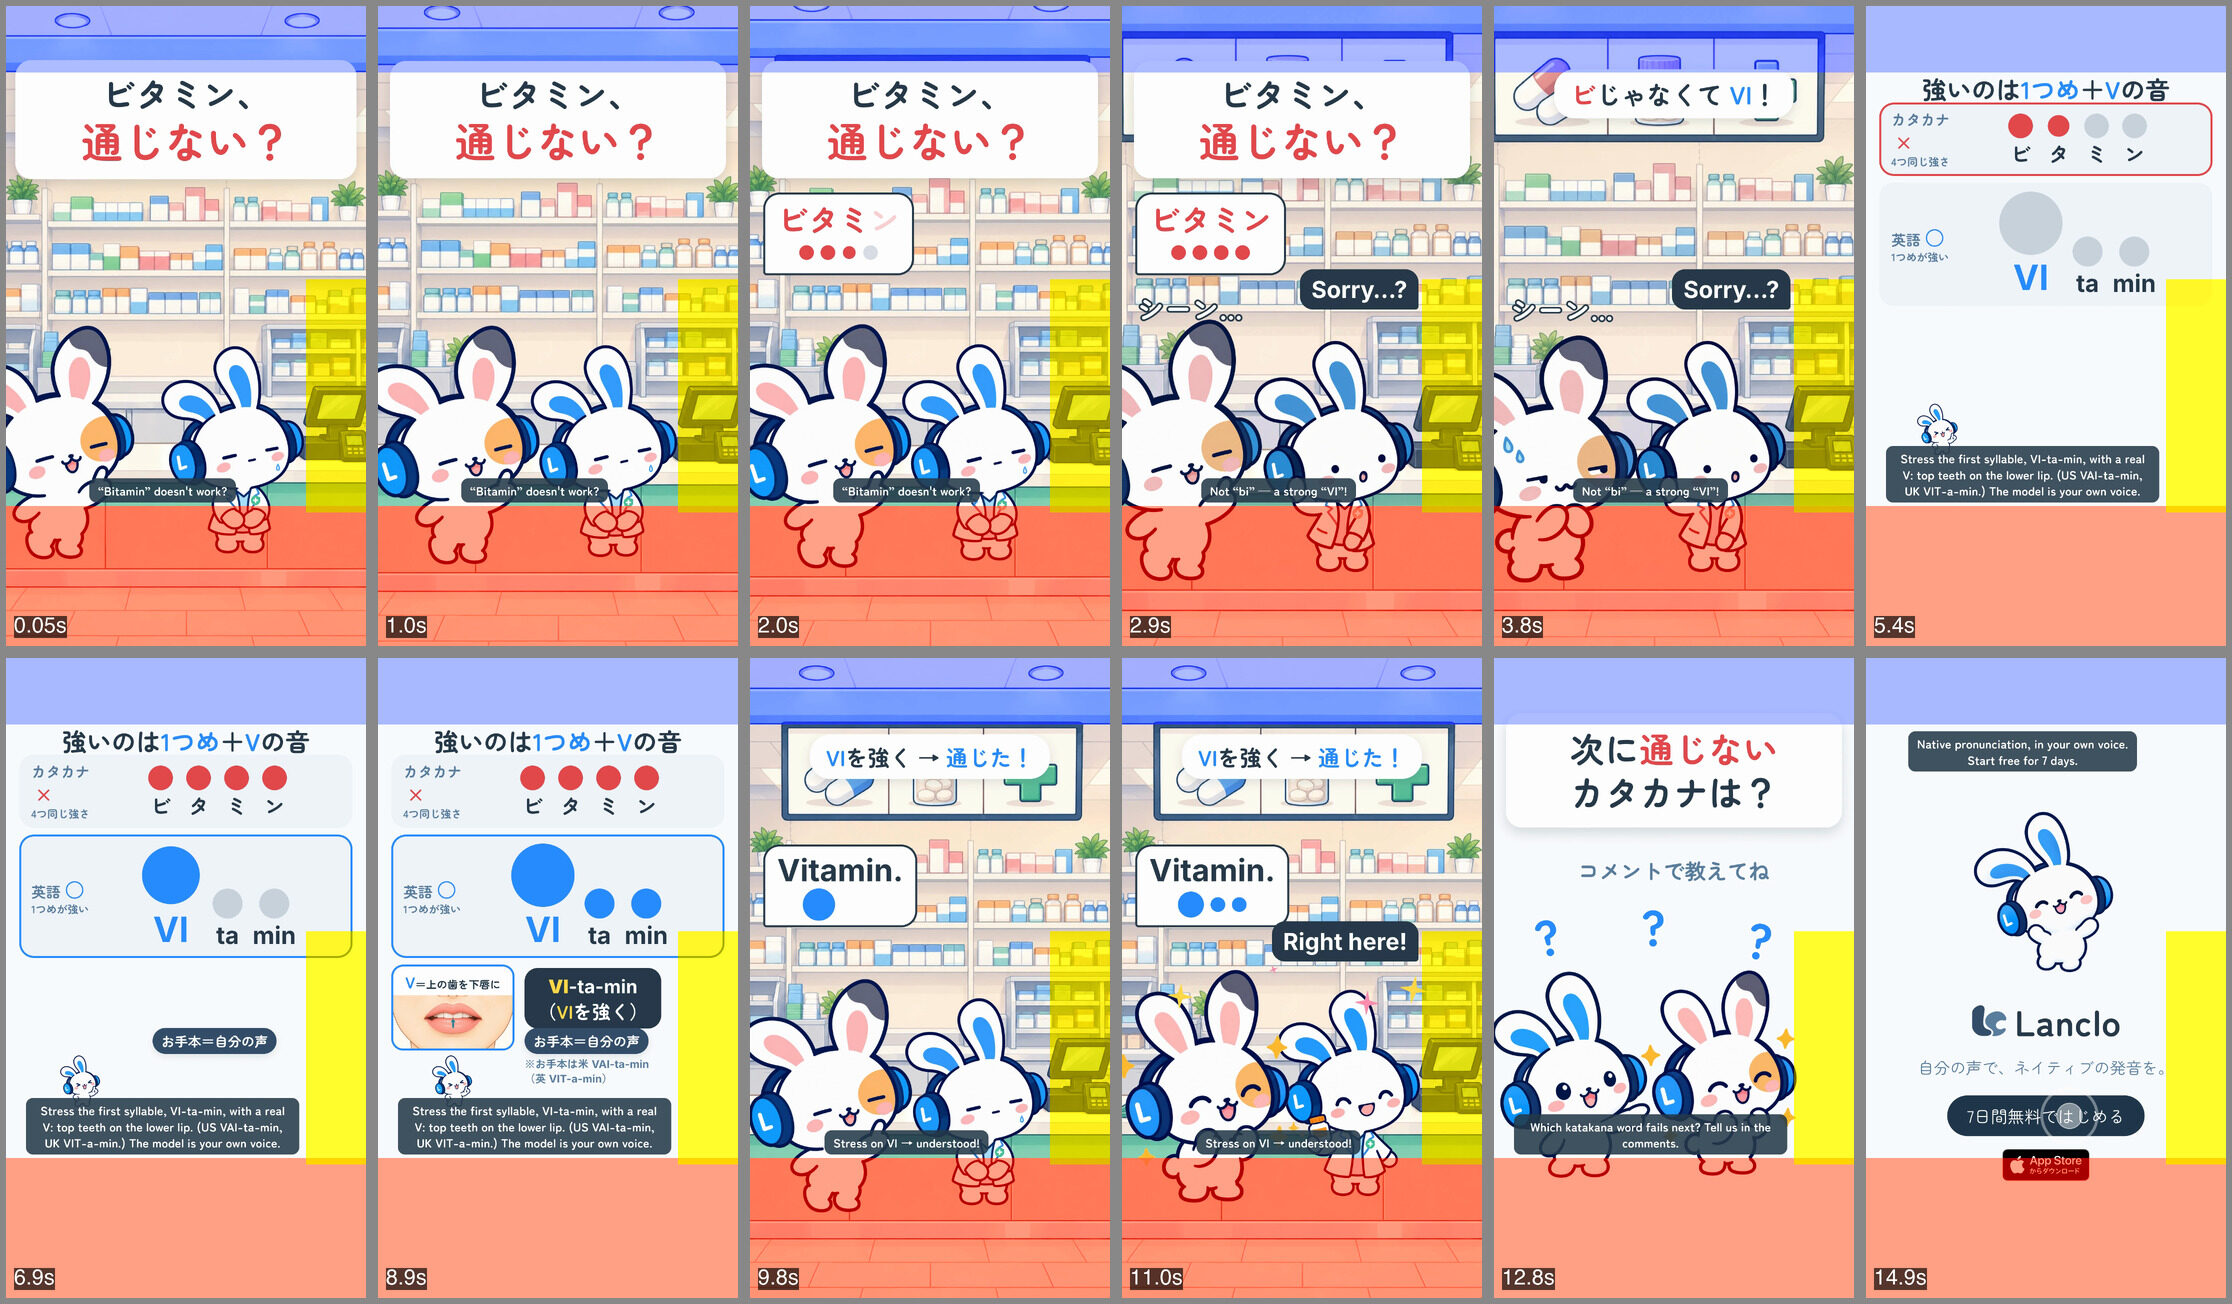
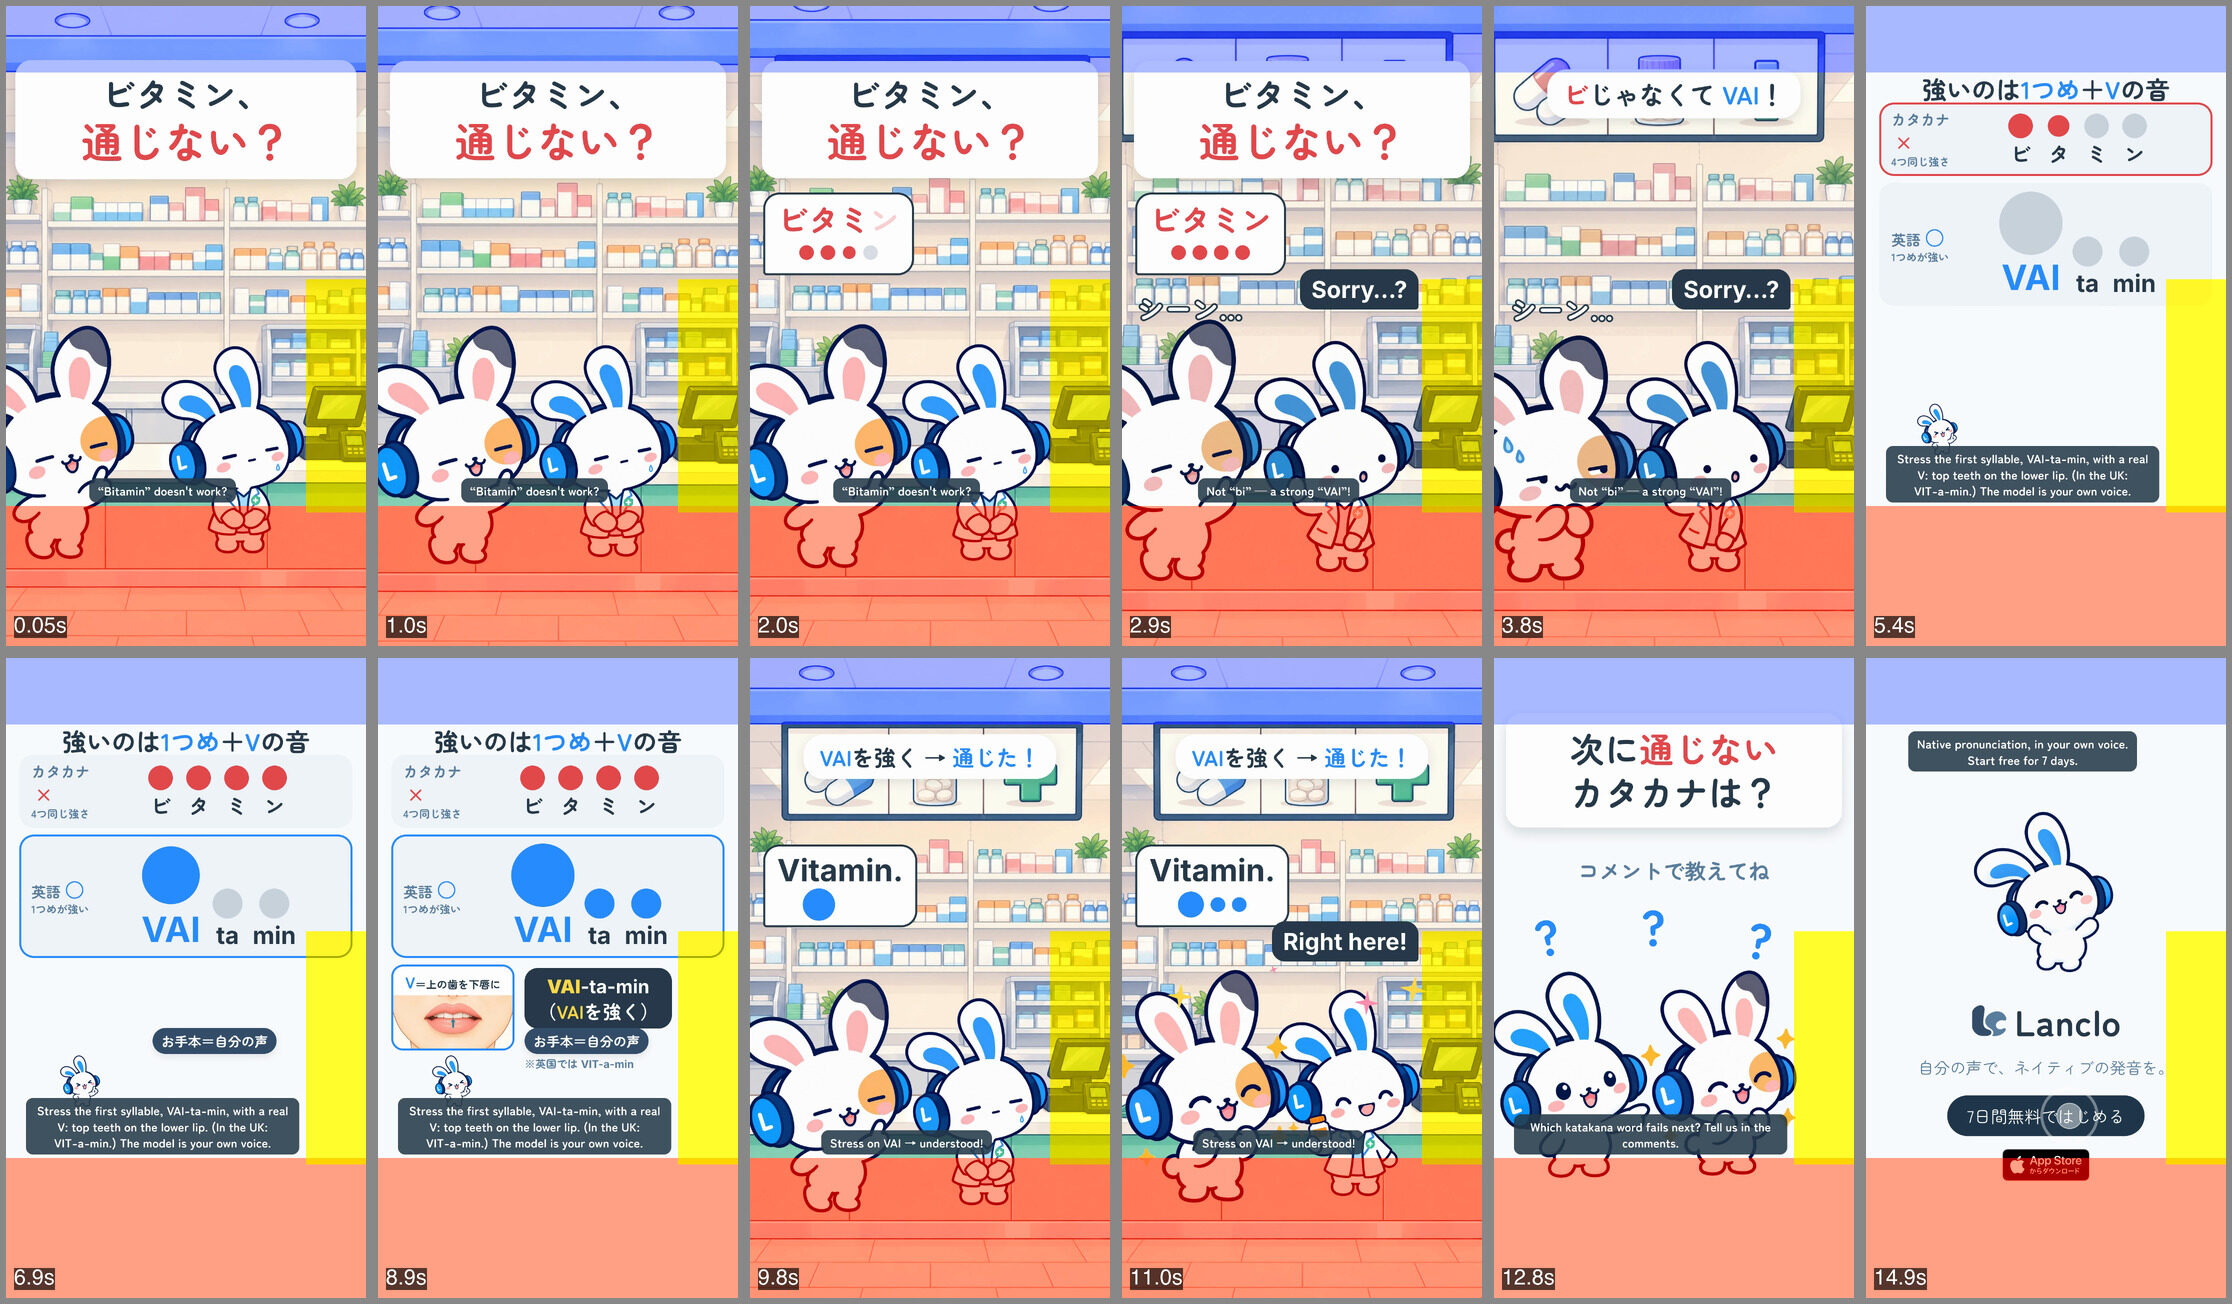
076 Vitamin v2: spell the stressed syllable VAI to match the US model

diff --git a/films/mimi-katakana-vitamin/source/hf/index.html b/films/mimi-katakana-vitamin/source/hf/index.html
@@ -90,6 +90,7 @@
       #cta-friend { position: absolute; left: 430px; top: 950px; width: 490px; height: auto; transform-origin: 50% 100%; }
       /* English subtitles: bottom safe zone. <body class="no-subs"> renders the Japanese-only cut. */
       body.no-subs .sub { display: none; }
+      .sub .nw { display: inline; padding: 0; background: none; white-space: nowrap; }
       .sub { position: absolute; left: 60px; width: 820px; bottom: 430px; display: flex; justify-content: center; }
       .sub.top { bottom: auto; top: 220px; }
       .sub span { display: block; max-width: 820px; background: rgba(39, 59, 75, 0.88); color: #ffffff; font-size: 36px; line-height: 1.35;
@@ -120,7 +121,7 @@
         <div class="meter"><i></i><i></i><i></i><i></i></div>
       </div>
       <div id="sorry" class="reply clip" data-start="2.6" data-duration="2.0" data-track-index="9">Sorry…?</div>
-      <div id="beats-cap" class="caption clip" data-start="3.2" data-duration="1.4" data-track-index="10"><span><em>ビ</em>じゃなくて <strong>VI</strong>！</span></div>
+      <div id="beats-cap" class="caption clip" data-start="3.2" data-duration="1.4" data-track-index="10"><span><em>ビ</em>じゃなくて <strong>VAI</strong>！</span></div>
       <div id="fx-word" class="clip" data-start="2.75" data-duration="1.85" data-track-index="11">シーン…</div>
 
       <!-- explain: Mimi out of role -->
@@ -135,18 +136,18 @@
         <div id="row-ok" class="row">
           <div class="lab">英語<b>○</b><span class="lab-note">1つめが強い</span></div>
           <div class="dots">
-            <div><i class="big"></i><span class="big">VI</span></div><div><i></i><span>ta</span></div><div><i></i><span>min</span></div>
+            <div><i class="big"></i><span class="big">VAI</span></div><div><i></i><span>ta</span></div><div><i></i><span>min</span></div>
           </div>
         </div>
         <div id="c-v"><div class="ph"><b>V</b>＝上の歯を下唇に</div><img src="assets/art/mouth-v-front.webp" alt="" /></div>
-        <div id="c-tip"><span><span class="en"><b>VI</b>-ta-min</span><br />（<b>VI</b>を強く）</span></div>
-        <div id="c-note">※お手本は米 <span class="en">VAI-ta-min</span><br />（英 <span class="en">VIT-a-min</span>）</div>
+        <div id="c-tip"><span><span class="en"><b>VAI</b>-ta-min</span><br />（<b>VAI</b>を強く）</span></div>
+        <div id="c-note">※英国では <span class="en">VIT-a-min</span></div>
         <img id="c-mimi" src="assets/art/pose-confident.webp" alt="" />
         <div id="c-who" class="tag model"><span>お手本＝自分の声</span></div>
       </div>
 
       <!-- model: the Friend says it right -->
-      <div id="ok-cap" class="caption clip" data-start="9.4" data-duration="2.6" data-track-index="10"><span id="ok-c"><strong>VI</strong>を強く → <strong>通じた！</strong></span></div>
+      <div id="ok-cap" class="caption clip" data-start="9.4" data-duration="2.6" data-track-index="10"><span id="ok-c"><strong>VAI</strong>を強く → <strong>通じた！</strong></span></div>
       <div id="ok-say" class="say clip" data-start="9.45" data-duration="2.55" data-track-index="7">
         <div class="en">Vitamin.</div>
         <div class="meter"><i class="big"></i><i></i><i></i></div>
@@ -169,9 +170,9 @@
 
       <!-- English subtitles (one track) -->
       <div class="sub clip" data-start="0" data-duration="2.6" data-track-index="24"><span>“Bitamin” doesn't work?</span></div>
-      <div class="sub clip" data-start="2.6" data-duration="2.0" data-track-index="24"><span>Not “bi” — a strong “VI”!</span></div>
-      <div class="sub clip" data-start="4.6" data-duration="4.8" data-track-index="24"><span>Stress the first syllable, VI-ta-min, with a real V: top teeth on the lower lip. (US VAI-ta-min, UK VIT-a-min.) The model is your own voice.</span></div>
-      <div class="sub clip" data-start="9.4" data-duration="2.6" data-track-index="24"><span>Stress on VI → understood!</span></div>
+      <div class="sub clip" data-start="2.6" data-duration="2.0" data-track-index="24"><span>Not “bi” — a strong “VAI”!</span></div>
+      <div class="sub clip" data-start="4.6" data-duration="4.8" data-track-index="24"><span>Stress the first syllable, <span class="nw">VAI-ta-min</span>, with a real V: top teeth on the lower lip. (In the UK: <span class="nw">VIT-a-min</span>.) The model is your own voice.</span></div>
+      <div class="sub clip" data-start="9.4" data-duration="2.6" data-track-index="24"><span>Stress on VAI → understood!</span></div>
       <div class="sub clip" data-start="12.0" data-duration="2.2" data-track-index="24"><span>Which katakana word fails next? Tell us in the comments.</span></div>
       <div class="sub top clip" data-start="14.2" data-duration="1.3" data-track-index="24"><span>Native pronunciation, in your own voice.<br />Start free for 7 days.</span></div>
 

diff --git a/films/mimi-katakana-vitamin/README.md b/films/mimi-katakana-vitamin/README.md
@@ -2,16 +2,16 @@
 
 [日本語](README.ja.md)
 
-Lanclo SNS short #076, episode 4 of “Katakana Traps” (stress + the V sound). Draft (2026-10-23), waiting for the owner's review. 15.5 s, 1080×1920, 60 fps, two cuts (Japanese only / English subtitles).
+Lanclo SNS short #076, episode 4 of “Katakana Traps” (stress + the V sound). Draft v2 (2026-10-23), waiting for the owner's review. 15.5 s, 1080×1920, 60 fps, two cuts (Japanese only / English subtitles).
 
-Frame 1: 「ビタミン、通じない？」. At a pharmacy counter the Friend asks the pharmacist (Mimi in a role outfit: a white pharmacist coat) for 「ビタミン」 the katakana way, four even beats starting with a B (owner's own voice, learner style), while a four-dot meter fills. Pharmacist Mimi, blank: “Sorry…?”; caption 「ビじゃなくて VI！」. A card: katakana × (four equal dots ビ・タ・ミ・ン) vs English ○ (VI · ta · min, the first dot big), the model twice in the owner's own voice (US, VAI-ta-min), a V mouth panel 「V＝上の歯を下唇に」 and the tip 「VI-ta-min（VIを強く）」; a small note 「※お手本は米 VAI-ta-min（英 VIT-a-min）」. Back at the counter the Friend says it right, the pharmacist smiles with a vitamin bottle: “Right here!”. CTA 「次に通じないカタカナは？」, then the end card.
+Frame 1: 「ビタミン、通じない？」. At a pharmacy counter the Friend asks the pharmacist (Mimi in a role outfit: a white pharmacist coat) for 「ビタミン」 the katakana way, four even beats starting with a B (owner's own voice, learner style), while a four-dot meter fills. Pharmacist Mimi, blank: “Sorry…?”; caption 「ビじゃなくて VAI！」. A card: katakana × (four equal dots ビ・タ・ミ・ン) vs English ○ (VAI · ta · min, the first dot big), the model twice in the owner's own voice (US, VAI-ta-min), a V mouth panel 「V＝上の歯を下唇に」 and the tip 「VAI-ta-min（VAIを強く）」; a small note 「※英国では VIT-a-min」. Back at the counter the Friend says it right, the pharmacist smiles with a vitamin bottle: “Right here!”. CTA 「次に通じないカタカナは？」, then the end card.
 
 | Time (s) | Beat id | What |
 |---|---|---|
 | 0.00–1.30 | `hook` | 「ビタミン、通じない？」 from frame 1; the Friend at the pharmacy counter, pharmacist Mimi blank-faced |
-| 1.30–4.60 | `slip` | Learner take “Bitamin” (owner's voice), 4 dots light on the measured beats; “Sorry…?” at 2.6; caption 「ビじゃなくて VI！」 at 3.2 |
-| 4.60–9.40 | `explain` | Card: katakana × (4 equal dots, learner take again at 5.0) vs English ○ (VI · ta · min, first big; model take at 6.6 and 7.9); V mouth panel at 6.9; tip 「VI-ta-min（VIを強く）」; お手本＝自分の声; US/UK note at 8.5 |
-| 9.40–12.00 | `model` | The Friend says it right (model take), 3-dot meter (first big); pharmacist Mimi smiles “Right here!”; caption 「VIを強く → 通じた！」 |
+| 1.30–4.60 | `slip` | Learner take “Bitamin” (owner's voice), 4 dots light on the measured beats; “Sorry…?” at 2.6; caption 「ビじゃなくて VAI！」 at 3.2 |
+| 4.60–9.40 | `explain` | Card: katakana × (4 equal dots, learner take again at 5.0) vs English ○ (VAI · ta · min, first big; model take at 6.6 and 7.9); V mouth panel at 6.9; tip 「VAI-ta-min（VAIを強く）」; お手本＝自分の声; UK note at 8.5 |
+| 9.40–12.00 | `model` | The Friend says it right (model take), 3-dot meter (first big); pharmacist Mimi smiles “Right here!”; caption 「VAIを強く → 通じた！」 |
 | 12.00–14.20 | `cta` | 「次に通じないカタカナは？」「コメントで教えてね」 with Mimi and the Friend |
 | 14.20–15.50 | `end` | End card, CTA tap at 14.8 |
 

diff --git a/films/mimi-katakana-vitamin/README.ja.md b/films/mimi-katakana-vitamin/README.ja.md
@@ -2,16 +2,16 @@
 
 [English](README.md)
 
-Lanclo SNSショート #076。シリーズ「カタカナの罠」第4話（アクセント＋Vの音）。ドラフト（2026-10-23、オーナー確認待ち）。15.5秒、1080×1920、60fps、2本（日本語のみ／英語字幕つき）。
+Lanclo SNSショート #076。シリーズ「カタカナの罠」第4話（アクセント＋Vの音）。ドラフト v2（2026-10-23、オーナー確認待ち）。15.5秒、1080×1920、60fps、2本（日本語のみ／英語字幕つき）。
 
-1フレーム目から「ビタミン、通じない？」。薬局のカウンターで、友だちが薬剤師（白衣のミミ）に「ビタミン」とカタカナ読み（B で始まる均等な4拍、オーナーの声・学習者スタイル）で言い、4つの点が実測の拍で点灯。薬剤師ミミは無表情で “Sorry…?”、キャプション「ビじゃなくて VI！」。カードでカタカナ ×（ビ・タ・ミ・ン、同じ大きさの点4つ）と英語 ○（VI · ta · min、1つめが大）、お手本はオーナー自身の声（米 VAI-ta-min）で2回。V の口の図「V＝上の歯を下唇に」とチップ「VI-ta-min（VIを強く）」、小さく「※お手本は米 VAI-ta-min（英 VIT-a-min）」。カウンターに戻り友だちが正しく言えて、薬剤師ミミがビタミンの瓶を見せて “Right here!”。「次に通じないカタカナは？」のあとエンドカード。
+1フレーム目から「ビタミン、通じない？」。薬局のカウンターで、友だちが薬剤師（白衣のミミ）に「ビタミン」とカタカナ読み（B で始まる均等な4拍、オーナーの声・学習者スタイル）で言い、4つの点が実測の拍で点灯。薬剤師ミミは無表情で “Sorry…?”、キャプション「ビじゃなくて VAI！」。カードでカタカナ ×（ビ・タ・ミ・ン、同じ大きさの点4つ）と英語 ○（VAI · ta · min、1つめが大）、お手本はオーナー自身の声（米 VAI-ta-min）で2回。V の口の図「V＝上の歯を下唇に」とチップ「VAI-ta-min（VAIを強く）」、小さく「※英国では VIT-a-min」。カウンターに戻り友だちが正しく言えて、薬剤師ミミがビタミンの瓶を見せて “Right here!”。「次に通じないカタカナは？」のあとエンドカード。
 
 | 秒 | ビート | 内容 |
 |---|---|---|
 | 0.00–1.30 | `hook` | 「ビタミン、通じない？」、カウンターの友だちと無表情の薬剤師ミミ |
-| 1.30–4.60 | `slip` | 友だち「ビタミン」、4つの点が点灯、2.6 “Sorry…?”、3.2「ビじゃなくて VI！」 |
-| 4.60–9.40 | `explain` | カード：カタカナ ×（4つ同じ）vs 英語 ○（1つめが大）、お手本2回、V の口の図、チップ、米英の注記 |
-| 9.40–12.00 | `model` | 友だちが正しく言う、薬剤師ミミ “Right here!”、「VIを強く → 通じた！」 |
+| 1.30–4.60 | `slip` | 友だち「ビタミン」、4つの点が点灯、2.6 “Sorry…?”、3.2「ビじゃなくて VAI！」 |
+| 4.60–9.40 | `explain` | カード：カタカナ ×（4つ同じ）vs 英語 ○（1つめが大）、お手本2回、V の口の図、チップ、英国の注記 |
+| 9.40–12.00 | `model` | 友だちが正しく言う、薬剤師ミミ “Right here!”、「VAIを強く → 通じた！」 |
 | 12.00–14.20 | `cta` | 「次に通じないカタカナは？」「コメントで教えてね」 |
 | 14.20–15.50 | `end` | エンドカード、14.8 で CTA タップ |
 

diff --git a/films/mimi-katakana-vitamin/PROCESS.md b/films/mimi-katakana-vitamin/PROCESS.md
@@ -29,6 +29,10 @@
 6. Series look (commander, 2026-10-23): the card CSS was diffed against episode 1 and the drift removed: the katakana / English row dot and text sizes back to episode 1 (74 px dots and 62 px katakana, the stressed dot 190 px and 104 px “VI”), the tip font 56 px, the English strings in captions and titles back to the kit font (Helvetica only inside the tip, the note and the say bubble, as in episode 1). Colour roles unchanged from the series: red #e5484d for katakana ×, blue #2a8dff for English ○ and the stressed dot, navy #273b4b text, #5b7f9f labels, yellow #ffd84a in the tip. Rows put their label on the left (as the rows in episode 3) to make room for the V panel.
 7. Checked with `hyperframes check` (0 errors) and an overlay contact sheet ([process/00-draft-frames.jpg](process/00-draft-frames.jpg), EN cut every ~1.5 s, zones drawn): hook readable from frame 1; top text from y ≥ 200; EN subtitles inside x 60–880 with the box bottom at y 1490; nothing in the right rail (the “min” of the English row ends at x ≈ 865, the faces of pharmacist Mimi stay left of x 900, the bubbles end at x 890); captions never over faces. Only Mimi and the Friend on screen; no Japanese first person in the text; no fixture text, no counts.
 
+## Commander review (2026-10-23, v2)
+
+- The card, captions and tip spelled the stressed syllable “VI” while the US model says VAI-ta-min: screen and sound disagreed. v2 follows the model: the stressed-dot label 「VAI」, the tip 「VAI-ta-min（VAIを強く）」, the captions 「ビじゃなくて VAI！」 and 「VAIを強く → 通じた！」, the EN subtitles to match (the pronunciations kept on one line), and the note is now 「※英国では VIT-a-min」. No new voice generation; layout, sound and loudness unchanged (both cuts −14.3 LUFS, −2.1 dBTP). Safe-zone sheet redone (“min” ends at x ≈ 870). v1 cuts moved to Drive `old/` with `_v1`.
+
 ## Uncertain / for review
 
 - The V onset of the model is soft (a short frication into the vowel, as natural speech has it); a human listen should confirm it reads as V on earphones.
